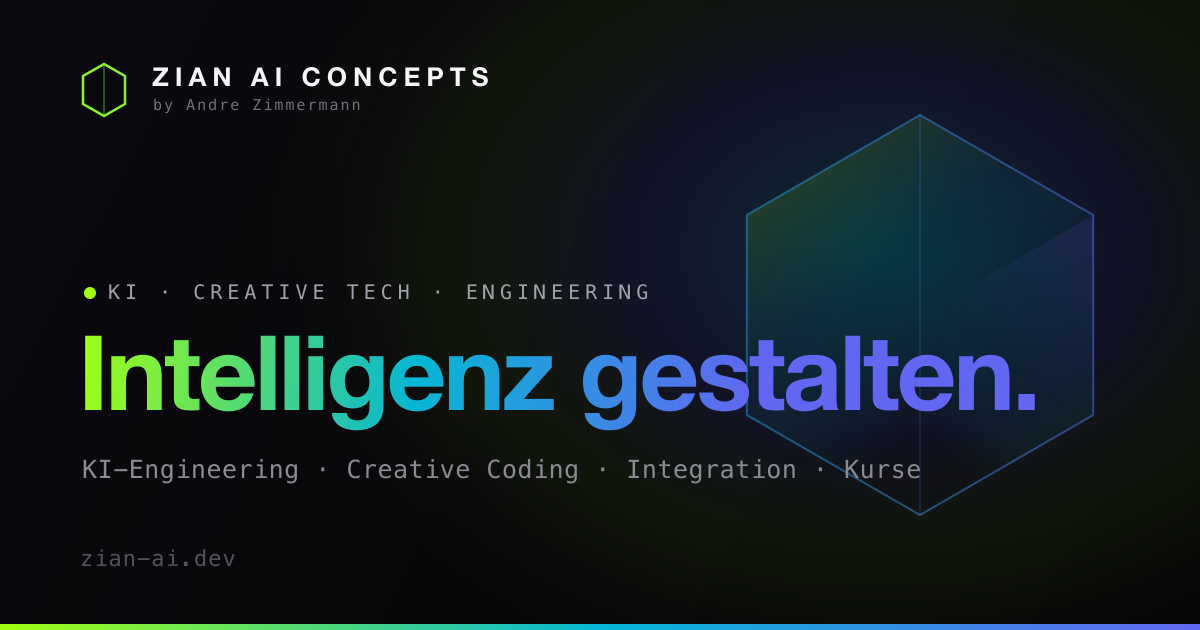
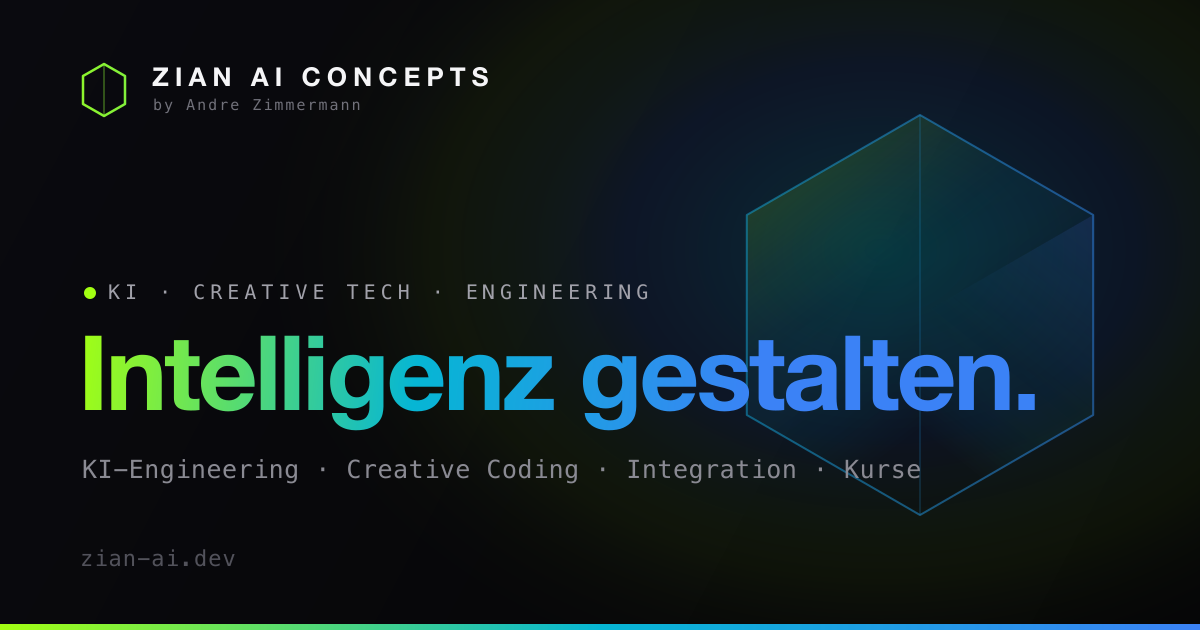
docs: add landing screenshot to README, refresh OG card to blue palette (#29)
- Add docs/screenshot.png (current hero, lime→cyan→blue) and embed it
  near the top of the README.
- Update public/og-image.svg's plasma stops from the old indigo #6366f1
  to blue #3b82f6 and regenerate public/og-image.png via `npm run
  og:image`, so the social card matches the current palette.

Changed region(s): [[0.4933, 0.5127, 0.8633, 0.6635], [0.8017, 0.9651, 1.0, 1.0]]

diff --git a/README.md b/README.md
@@ -2,6 +2,8 @@
 
 Animated single-page landing for **ZIAN AI CONCEPTS** (André Zimmermann). Tech-noir design, scroll-triggered timeline choreography, bilingual DE/EN.
 
+![ZIAN AI CONCEPTS landing page — hero with the lime→cyan→blue plasma palette, 3D signet and liquid WebGL backdrop](docs/screenshot.png)
+
 ## Stack
 
 - **Vite 7** + **React 19** + **TypeScript** (strict, with `noUncheckedIndexedAccess`)
